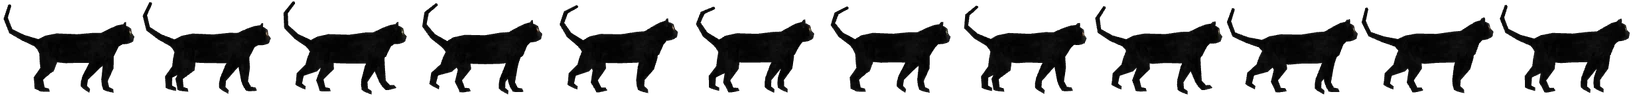
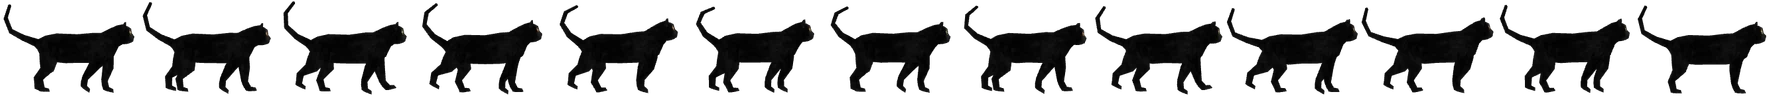
Stop the loading cat at the end of the bar
At 100% the cat now stops walking at the end of the bar and stands
there, using a new standing frame at the end of the sprite, until the
screen fades. Before, it carried on off the right of the screen. With
reduced motion it shows the standing frame throughout.

Claude-Session: https://claude.ai/code/session_01X4CZaSJKNgwwpCecnuBGv6

diff --git a/index.html b/index.html
@@ -40,7 +40,7 @@
         transform: translateX(calc(-100% + var(--loaded, 0.06) * (var(--tw) - var(--cw)) + var(--cw) / 2));
         transition: transform var(--step, 0.35s) linear;
       }
-      /* the cat walks along the bar; its legs are a 12-frame strip stepped through */
+      /* the cat walks along the bar; its legs are a 12-frame strip stepped through (the 13th frame, standing, is for the end) */
       #loader .ld-cat {
         position: absolute;
         left: 0;
@@ -53,18 +53,17 @@
       }
       #loader .ld-cat i {
         display: block;
-        width: calc(var(--cw) * 12);
+        width: calc(var(--cw) * 13);
         height: 100%;
         background: url(/loader-cat.webp) 0 0 / 100% 100% no-repeat;
         animation: ld-walk 0.95s steps(12) infinite;
       }
-      @keyframes ld-walk { to { transform: translateX(-100%); } }
+      @keyframes ld-walk { to { transform: translateX(calc(var(--cw) * -12)); } }
       #loader .ld-pct { font: 500 11px/1 'IBM Plex Mono', ui-monospace, monospace; letter-spacing: 0.08em; color: rgba(29, 33, 23, 0.62); font-variant-numeric: tabular-nums; transition: opacity 0.3s ease; }
       #loader .ld-pct::after { counter-reset: p var(--pct, 6); content: counter(p) '%'; }
 
-      /* done: the cat trots off the right of the screen, then everything lifts away */
-      #loader[data-done] .ld-cat { transform: translateX(calc(50vw + var(--tw) / 2 + 20px)); transition: transform 0.9s cubic-bezier(0.5, 0, 0.75, 0.4); }
-      #loader[data-done] .ld-cat i { animation-duration: 0.6s; }
+      /* done: the cat stops at the end of the bar and stands, then everything lifts away */
+      #loader[data-done] .ld-cat i { animation: none; transform: translateX(calc(var(--cw) * -12)); }
       #loader[data-done] .ld-bar i { transform: none; transition: transform 0.4s ease-out; }
       #loader[data-done] .ld-pct { opacity: 0; }
       #loader[data-gone] { opacity: 0; visibility: hidden; }
@@ -72,8 +71,8 @@
 
       @media (prefers-reduced-motion: reduce) {
         #loader { transition: opacity 0.3s ease, visibility 0s linear 0.3s; }
-        #loader *, #loader[data-done] .ld-cat { transition: none !important; }
-        #loader .ld-cat i { animation: none; }
+        #loader * { transition: none !important; }
+        #loader .ld-cat i { animation: none; transform: translateX(calc(var(--cw) * -12)); } /* standing */
         #loader[data-gone] .ld-name, #loader[data-gone] .ld-track { transform: none; }
       }
     </style>

diff --git a/src/desk/loadProgress.ts b/src/desk/loadProgress.ts
@@ -125,7 +125,7 @@ export function reveal() {
   else setTimeout(done, run + 30)
 }
 
-/** the bar is full: the cat trots off, the screen lifts, and the desk settles into view */
+/** the bar is full: the cat stops at the end and stands, the screen lifts, and the desk settles into view */
 function done() {
   const loader = el()
   const settle = () => delete document.documentElement.dataset.loading
@@ -140,6 +140,6 @@ function done() {
   setTimeout(() => {
     loader.dataset.gone = ''
     settle()
-  }, 450)
-  setTimeout(() => loader.remove(), 1600)
+  }, 600) // a moment to see the cat at the end
+  setTimeout(() => loader.remove(), 1800)
 }
